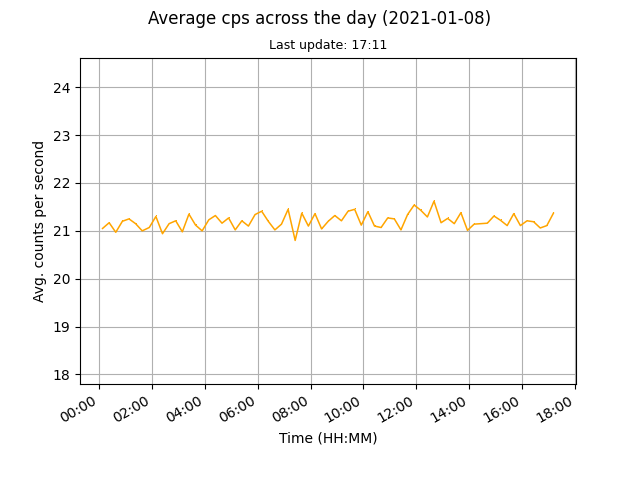
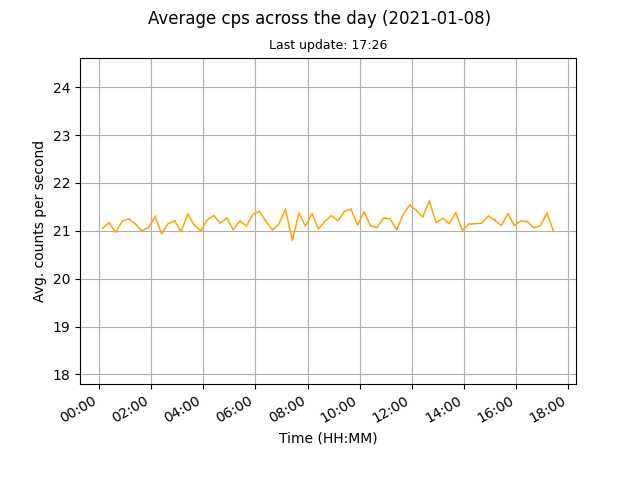
auto data update

diff --git a/docs/index.html b/docs/index.html
@@ -45,8 +45,8 @@
 	
 	<br>
 	
-	<p>Current counts per second (cps): 21.37</p>
-	<p>Last update: 2021-01-08, 17:11</p>
+	<p>Current counts per second (cps): 20.99</p>
+	<p>Last update: 2021-01-08, 17:26</p>
 
 	<p><a href="images/monthly.png"><img src="images/monthly.png" alt="Mothly avg cps data"></a><a href="images/daily.png"><img src="images/daily.png" alt="Daily avg cps data"></a></p>
 	
